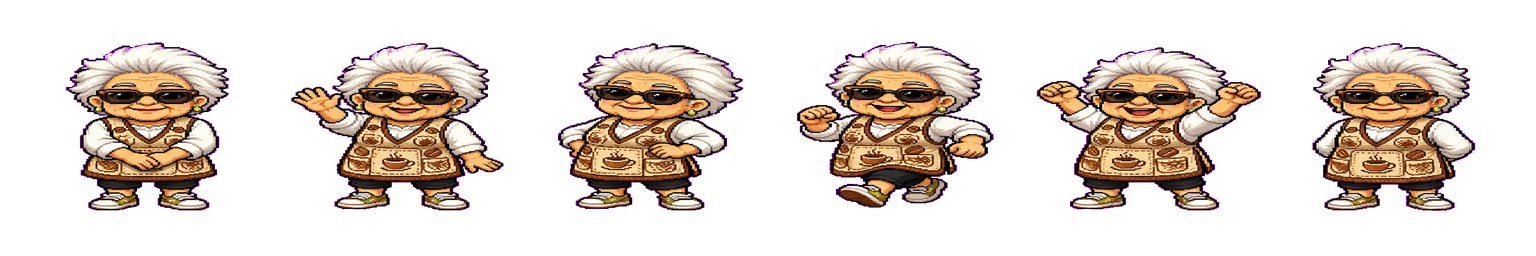
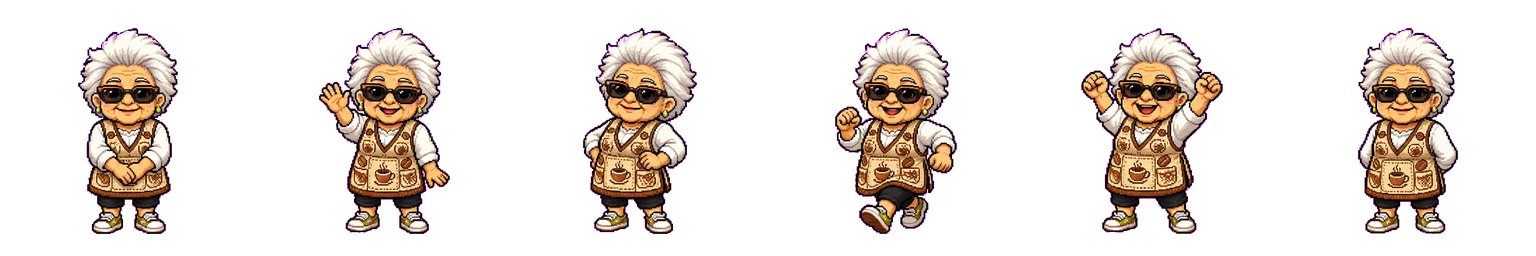
Fix Flor mascot aspect ratio

diff --git a/dist/_expo/static/js/web/AppEntry-fbb388d8e132b1793cc85e636ef574a1.js b/dist/_expo/static/js/web/AppEntry-fbb388d8e132b1793cc85e636ef574a1.js
@@ -5698,8 +5698,8 @@ __d(function(g,r,i,a,m,_e,d){"use strict";function e(e){return e&&e.__esModule?e
 __d(function(s,e,i,t,a,d,c){a.exports={uri:"/assets/assets/algodon-pixel-idle-strip.39a4a3335d308c88d66a593ec2bc2682.png",width:1536,height:256}},451,[]);
 __d(function(g,r,i,a,m,_e,d){"use strict";function e(e){return e&&e.__esModule?e:{default:e}}Object.defineProperty(_e,'__esModule',{value:!0}),Object.defineProperty(_e,"default",{enumerable:!0,get:function(){return p}});var t=r(d[0]),n=e(r(d[1])),u=e(r(d[2])),l=e(r(d[3])),s=r(d[4]);const c=r(d[5]),o=6,f={idle:{fps:2.5,duration:null},neutral:{fps:2.5,duration:null},wave:{fps:5,duration:1900},happy:{fps:6,duration:2200},bounce:{fps:6,duration:2200},angry:{fps:7,duration:1500},thinking:{fps:2,duration:null},sleepy:{fps:1.5,duration:null}};function p({state:e="idle",size:p=180,autoWave:h=!0,onIdle:v}){const[b,y]=(0,t.useState)('idle'),[_,j]=(0,t.useState)(0),w=(0,t.useRef)(!0),I=(0,t.useRef)(null),R=(0,t.useRef)(null),T=(0,t.useRef)(e);(0,t.useEffect)(()=>()=>{w.current=!1,clearInterval(I.current),clearTimeout(R.current)},[]),(0,t.useEffect)(()=>{if(!h)return;const e=setTimeout(()=>{w.current&&P('wave')},700);return()=>clearTimeout(e)},[h]),(0,t.useEffect)(()=>{e!==T.current&&(T.current=e,P(e))},[e]);const E=f[b]||f.idle;function P(e){if(!w.current)return;clearTimeout(R.current),y(f[e]?e:'idle');const t=f[e]||f.idle;t.duration&&(R.current=setTimeout(()=>{w.current&&(y('idle'),v?.())},t.duration))}return(0,t.useEffect)(()=>(j(0),clearInterval(I.current),I.current=setInterval(()=>{j(e=>(e+1)%o)},1e3/E.fps),()=>clearInterval(I.current)),[b,E.fps]),(0,s.jsx)(l.default,{onPress:function(){'idle'!==b&&'neutral'!==b||P('bounce')},accessibilityRole:"imagebutton",accessibilityLabel:"Patito, pato mini coach",children:(0,s.jsx)(n.default,{style:{width:p,height:p,overflow:'hidden'},children:(0,s.jsx)(u.default,{source:c,style:{width:p*o,height:p,transform:[{translateX:-_*p}]},resizeMode:"stretch",fadeDuration:0})})})}},452,[31,94,291,335,419,453]);
 __d(function(e,t,i,s,c,a,d){c.exports={uri:"/assets/assets/patito-pixel-idle-strip.6fceda581c55bfbebbe91a19d3c0cc12.png",width:1536,height:256}},453,[]);
-__d(function(g,r,i,a,m,_e,d){"use strict";function e(e){return e&&e.__esModule?e:{default:e}}Object.defineProperty(_e,'__esModule',{value:!0}),Object.defineProperty(_e,"default",{enumerable:!0,get:function(){return h}});var t=r(d[0]),n=e(r(d[1])),u=e(r(d[2])),l=e(r(d[3])),s=r(d[4]);const c=r(d[5]),o=6,f={idle:{fps:2,duration:null},neutral:{fps:2,duration:null},wave:{fps:4,duration:2200},happy:{fps:5,duration:2600},bounce:{fps:5,duration:2600},angry:{fps:5.5,duration:1800},thinking:{fps:1.8,duration:null},sleepy:{fps:1.3,duration:null}};function h({state:e="idle",size:h=180,autoWave:p=!0,onIdle:v}){const[y,b]=(0,t.useState)('idle'),[j,w]=(0,t.useState)(0),I=(0,t.useRef)(!0),_=(0,t.useRef)(null),R=(0,t.useRef)(null),T=(0,t.useRef)(e);(0,t.useEffect)(()=>()=>{I.current=!1,clearInterval(_.current),clearTimeout(R.current)},[]),(0,t.useEffect)(()=>{if(!p)return;const e=setTimeout(()=>{I.current&&E('wave')},800);return()=>clearTimeout(e)},[p]),(0,t.useEffect)(()=>{e!==T.current&&(T.current=e,E(e))},[e]);const x=f[y]||f.idle;function E(e){if(!I.current)return;clearTimeout(R.current),b(f[e]?e:'idle');const t=f[e]||f.idle;t.duration&&(R.current=setTimeout(()=>{I.current&&(b('idle'),v?.())},t.duration))}return(0,t.useEffect)(()=>(w(0),clearInterval(_.current),_.current=setInterval(()=>{w(e=>(e+1)%o)},1e3/x.fps),()=>clearInterval(_.current)),[y,x.fps]),(0,s.jsx)(l.default,{onPress:function(){'idle'!==y&&'neutral'!==y||E('bounce')},accessibilityRole:"imagebutton",accessibilityLabel:"Flor, abuela coach con lentes oscuros",children:(0,s.jsx)(n.default,{style:{width:h,height:h,overflow:'hidden',alignItems:'center',justifyContent:'center'},children:(0,s.jsx)(n.default,{style:{width:h,height:h,overflow:'hidden',transform:[{scaleX:1.16},{scaleY:1.04}]},children:(0,s.jsx)(u.default,{source:c,style:{width:h*o,height:h,transform:[{translateX:-j*h}]},resizeMode:"stretch",fadeDuration:0})})})})}},454,[31,94,291,335,419,455]);
-__d(function(s,e,i,t,d,f,c){d.exports={uri:"/assets/assets/flor-pixel-idle-strip.2903fc07407455a7ec2971dcf1d691fb.png",width:1536,height:256}},455,[]);
+__d(function(g,r,i,a,m,_e,d){"use strict";function e(e){return e&&e.__esModule?e:{default:e}}Object.defineProperty(_e,'__esModule',{value:!0}),Object.defineProperty(_e,"default",{enumerable:!0,get:function(){return p}});var t=r(d[0]),n=e(r(d[1])),u=e(r(d[2])),l=e(r(d[3])),s=r(d[4]);const c=r(d[5]),o=6,f={idle:{fps:2,duration:null},neutral:{fps:2,duration:null},wave:{fps:4,duration:2200},happy:{fps:5,duration:2600},bounce:{fps:5,duration:2600},angry:{fps:5.5,duration:1800},thinking:{fps:1.8,duration:null},sleepy:{fps:1.3,duration:null}};function p({state:e="idle",size:p=180,autoWave:h=!0,onIdle:b}){const[v,y]=(0,t.useState)('idle'),[_,j]=(0,t.useState)(0),w=(0,t.useRef)(!0),I=(0,t.useRef)(null),R=(0,t.useRef)(null),T=(0,t.useRef)(e);(0,t.useEffect)(()=>()=>{w.current=!1,clearInterval(I.current),clearTimeout(R.current)},[]),(0,t.useEffect)(()=>{if(!h)return;const e=setTimeout(()=>{w.current&&x('wave')},800);return()=>clearTimeout(e)},[h]),(0,t.useEffect)(()=>{e!==T.current&&(T.current=e,x(e))},[e]);const E=f[v]||f.idle;function x(e){if(!w.current)return;clearTimeout(R.current),y(f[e]?e:'idle');const t=f[e]||f.idle;t.duration&&(R.current=setTimeout(()=>{w.current&&(y('idle'),b?.())},t.duration))}return(0,t.useEffect)(()=>(j(0),clearInterval(I.current),I.current=setInterval(()=>{j(e=>(e+1)%o)},1e3/E.fps),()=>clearInterval(I.current)),[v,E.fps]),(0,s.jsx)(l.default,{onPress:function(){'idle'!==v&&'neutral'!==v||x('bounce')},accessibilityRole:"imagebutton",accessibilityLabel:"Flor, abuela coach con lentes oscuros",children:(0,s.jsx)(n.default,{style:{width:p,height:p,overflow:'hidden'},children:(0,s.jsx)(u.default,{source:c,style:{width:p*o,height:p,transform:[{translateX:-_*p}]},resizeMode:"stretch",fadeDuration:0})})})}},454,[31,94,291,335,419,455]);
+__d(function(s,d,e,i,t,p,r){t.exports={uri:"/assets/assets/flor-pixel-idle-strip.2d94558080c5da977d5496d07e6b35cf.png",width:1536,height:256}},455,[]);
 __d(function(g,r,_i,a,m,_e,d){"use strict";function e(e){return e&&e.__esModule?e:{default:e}}Object.defineProperty(_e,'__esModule',{value:!0}),Object.defineProperty(_e,"default",{enumerable:!0,get:function(){return S}});var t=r(d[0]),l=e(r(d[1])),s=e(r(d[2])),o=e(r(d[3])),n=e(r(d[4])),i=e(r(d[5])),c=e(r(d[6])),u=e(r(d[7])),p=e(r(d[8])),f=r(d[9]),b=r(d[10]),y=r(d[11]),h=r(d[12]),x=r(d[13]);const j=[{id:'ppl',label:'Push / Pull / Legs',days:6,desc:'6 d\xedas \xb7 split cl\xe1sico'},{id:'upper_lower',label:'Upper / Lower',days:4,desc:'4 d\xedas \xb7 fuerza balanceada'},{id:'full_body',label:'Full Body',days:3,desc:'3 d\xedas \xb7 ideal para empezar'},{id:'bro',label:'Bro Split',days:5,desc:'5 d\xedas \xb7 un m\xfasculo por d\xeda'},{id:'custom',label:'Rutina personalizada',days:0,desc:'Arm\xe1 tu propia rutina desde el app'}],P={ppl:[{day:'Push A',exercises:['Press banca','Press inclinado','Aperturas','Press militar','Extensi\xf3n tr\xedceps']},{day:'Pull A',exercises:['Peso muerto','Remo con barra','Jal\xf3n al pecho','Curl b\xedceps','Face pull']},{day:'Legs A',exercises:['Sentadilla','Prensa','Extensi\xf3n cu\xe1driceps','Curl femoral','Pantorrilla']}],upper_lower:[{day:'Upper A',exercises:['Press banca','Remo con barra','Press militar','Jal\xf3n al pecho','Curl b\xedceps']},{day:'Lower A',exercises:['Sentadilla','Peso muerto rumano','Prensa','Curl femoral','Pantorrilla']}],full_body:[{day:'Full Body A',exercises:['Sentadilla','Press banca','Peso muerto','Press militar','Remo']},{day:'Full Body B',exercises:['Sentadilla frontal','Press inclinado','Peso muerto rumano','Dominadas','Dips']}],bro:[{day:'Pecho',exercises:['Press banca','Press inclinado','Aperturas','Pullover','Fondos']},{day:'Espalda',exercises:['Dominadas','Remo con barra','Jal\xf3n al pecho','Remo en polea','Encogimientos']},{day:'Hombros',exercises:['Press militar','Elevaciones laterales','P\xe1jaro','Face pull','Press Arnold']},{day:'B\xedceps/Tr\xedceps',exercises:['Curl barra','Curl martillo','Press franc\xe9s','Extensi\xf3n cable','Curl concentrado']},{day:'Piernas',exercises:['Sentadilla','Prensa','Extensi\xf3n cu\xe1d','Curl femoral','Pantorrilla']}],custom:[]},C=['bienvenida','nombre','split','ejercicios','listo'];function S({onFinish:e}){const{colors:o}=(0,b.useTheme)(),f=(0,t.useMemo)(()=>T(o),[o]),[S,w]=(0,t.useState)(0),[A,I]=(0,t.useState)(''),[R,z]=(0,t.useState)(null),[B,D]=(0,t.useState)([]);function k(){if(1!==S||A.trim())if(2!==S||R){if(2===S){const e=P[R]||[];if(D(e.map((e,t)=>Object.assign({id:`${R}_${t}`},e))),'custom'===R)return void w(4)}w(e=>e+1)}else p.default.alert('Panchita dice:','Eleg\xed tu split primero.');else p.default.alert('Panchita dice:','\xa1Necesito saber tu nombre!')}return(0,x.jsx)(c.default,{style:f.safe,children:(0,x.jsxs)(i.default,{contentContainerStyle:f.scroll,keyboardShouldPersistTaps:"handled",children:[0===S&&(0,x.jsxs)(l.default,{style:f.center,children:[(0,x.jsx)(l.default,{style:f.onboardIcon,children:(0,x.jsx)(h.IconPaw,{size:54,color:o.purpleLight})}),(0,x.jsx)(s.default,{style:f.title,children:"Hola, soy Panchita"}),(0,x.jsxs)(s.default,{style:f.sub,children:["Tu coach de fitness personal.",'\n',"Vamos a configurar todo para que empieces a romperla."]}),(0,x.jsx)(n.default,{style:f.btnPrimary,onPress:k,children:(0,x.jsxs)(s.default,{style:f.btnText,children:['\xa1',"Empecemos!"]})})]}),1===S&&(0,x.jsxs)(l.default,{style:f.center,children:[(0,x.jsx)(l.default,{style:f.onboardIcon,children:(0,x.jsx)(h.IconMuscle,{size:54,color:o.purpleLight})}),(0,x.jsxs)(s.default,{style:f.title,children:['\xbf',"C\xf3mo te llamo?"]}),(0,x.jsx)(u.default,{style:f.input,placeholder:"Tu nombre o apodo",placeholderTextColor:o.gray,value:A,onChangeText:I,autoFocus:!0}),(0,x.jsx)(n.default,{style:f.btnPrimary,onPress:k,children:(0,x.jsx)(s.default,{style:f.btnText,children:"Siguiente"})})]}),2===S&&(0,x.jsxs)(l.default,{style:f.section,children:[(0,x.jsxs)(s.default,{style:f.title,children:['\xbf',"Qu\xe9 split hac\xe9s?"]}),(0,x.jsx)(s.default,{style:f.sub,children:"Eleg\xed el que m\xe1s se ajuste a tus d\xedas disponibles."}),j.map(e=>(0,x.jsxs)(n.default,{style:[f.card,R===e.id&&f.cardSelected],onPress:()=>z(e.id),children:[(0,x.jsx)(s.default,{style:[f.cardTitle,R===e.id&&f.cardTitleSelected],children:e.label}),(0,x.jsx)(s.default,{style:f.cardDesc,children:e.desc})]},e.id)),(0,x.jsx)(n.default,{style:f.btnPrimary,onPress:k,children:(0,x.jsx)(s.default,{style:f.btnText,children:"Confirmar"})})]}),3===S&&(0,x.jsxs)(l.default,{style:f.section,children:[(0,x.jsx)(s.default,{style:f.title,children:"Tus d\xedas de entrenamiento"}),(0,x.jsx)(s.default,{style:f.sub,children:"Pod\xe9s editar los ejercicios desde el app cuando quieras."}),B.map((e,t)=>(0,x.jsxs)(l.default,{style:f.dayCard,children:[(0,x.jsx)(s.default,{style:f.dayTitle,children:e.day}),e.exercises.map((e,t)=>(0,x.jsxs)(s.default,{style:f.exItem,children:["\xb7 ",e]},t))]},t)),(0,x.jsx)(n.default,{style:f.btnPrimary,onPress:k,children:(0,x.jsxs)(s.default,{style:f.btnText,children:['\xa1',"Perfecto!"]})})]}),4===S&&(0,x.jsxs)(l.default,{style:f.center,children:[(0,x.jsx)(l.default,{style:f.onboardIcon,children:(0,x.jsx)(h.IconCheck,{size:54,color:o.lime})}),(0,x.jsxs)(s.default,{style:f.title,children:['\xa1',"Todo listo, ",A,"!"]}),'custom'===R?(0,x.jsxs)(s.default,{style:f.sub,children:["Panchita te espera.",'\n',"Cre\xe1 tu primera rutina desde Entrenamiento."]}):(0,x.jsxs)(s.default,{style:f.sub,children:["Panchita va a estar ac\xe1 para cada entrenamiento.",'\n',"No me falles."]}),(0,x.jsx)(n.default,{style:f.btnLime,onPress:async function(){const t=A.trim();try{await(0,y.saveUser)({name:t,split:R,onboarded:!0}),B.length>0&&await(0,y.saveWorkouts)(B),await(0,y.setOnboarded)()}catch(e){console.log('onboarding save:',e?.message||e);try{await(0,y.setOnboarded)()}catch(e){}}e()},children:(0,x.jsxs)(l.default,{style:f.btnRow,children:[(0,x.jsx)(s.default,{style:[f.btnText,{color:'#0f0a1e'}],children:"Ir al app"}),(0,x.jsx)(h.IconArrow,{size:15,color:"#0f0a1e"})]})})]}),(0,x.jsx)(l.default,{style:f.dots,children:C.map((e,t)=>(0,x.jsx)(l.default,{style:[f.dot,t===S&&f.dotActive]},t))})]})})}function T(e){return o.default.create({safe:{flex:1,backgroundColor:e.bg},scroll:{flexGrow:1,padding:24,paddingTop:60},center:{flex:1,alignItems:'center',justifyContent:'center',paddingBottom:40},section:{flex:1,paddingBottom:40},onboardIcon:{width:76,height:76,borderRadius:38,backgroundColor:e.bgCard,borderWidth:1,borderColor:e.purpleDim,alignItems:'center',justifyContent:'center',marginBottom:16},btnRow:{flexDirection:'row',alignItems:'center',justifyContent:'center',gap:6},title:{fontSize:28,fontWeight:'700',color:e.white,textAlign:'center',marginBottom:12},sub:{fontSize:16,color:e.grayLight,textAlign:'center',lineHeight:24,marginBottom:32},input:{width:'100%',backgroundColor:e.bgInput,borderRadius:f.RADIUS.md,padding:16,fontSize:18,color:e.white,marginBottom:24,borderWidth:1,borderColor:e.purpleDim},btnPrimary:{backgroundColor:e.purple,borderRadius:f.RADIUS.full,paddingVertical:16,paddingHorizontal:48,marginTop:8},btnLime:{backgroundColor:e.lime,borderRadius:f.RADIUS.full,paddingVertical:16,paddingHorizontal:48,marginTop:8},btnText:{color:'#ffffff',fontWeight:'700',fontSize:16},card:{backgroundColor:e.bgCard,borderRadius:f.RADIUS.lg,padding:18,marginBottom:12,borderWidth:2,borderColor:'transparent'},cardSelected:{borderColor:e.purple,backgroundColor:e.purpleDim},cardTitle:{fontSize:17,fontWeight:'600',color:e.white,marginBottom:4},cardTitleSelected:{color:e.purpleLight},cardDesc:{fontSize:13,color:e.gray},dayCard:{backgroundColor:e.bgCard,borderRadius:f.RADIUS.md,padding:16,marginBottom:12},dayTitle:{fontSize:15,fontWeight:'700',color:e.lime,marginBottom:8},exItem:{fontSize:14,color:e.grayLight,marginBottom:3},dots:{flexDirection:'row',justifyContent:'center',gap:8,marginTop:32},dot:{width:8,height:8,borderRadius:4,backgroundColor:e.purpleDim},dotActive:{backgroundColor:e.purple,width:24}})}},456,[31,94,128,39,416,246,415,431,437,417,418,421,422,419]);
 __d(function(g,r,i,a,m,_e,d){"use strict";function e(e){return e&&e.__esModule?e:{default:e}}Object.defineProperty(_e,'__esModule',{value:!0}),Object.defineProperty(_e,"default",{enumerable:!0,get:function(){return v}});var t=r(d[0]),n=e(r(d[1])),l=e(r(d[2])),o=e(r(d[3])),s=e(r(d[4])),u=e(r(d[5])),c=e(r(d[6])),f=e(r(d[7]));r(d[8]);var h=e(r(d[9])),p=e(r(d[10])),x=r(d[11]),y=r(d[12]),b=r(d[13]),j=r(d[14]),S=e(r(d[15])),T=r(d[16]);const k={'auth/invalid-email':'El email no es v\xe1lido.','auth/user-not-found':'No existe una cuenta con ese email.','auth/wrong-password':'Contrase\xf1a incorrecta.','auth/invalid-credential':'Email o contrase\xf1a incorrectos.','auth/too-many-requests':'Demasiados intentos. Intent\xe1 m\xe1s tarde.','auth/network-request-failed':'Sin conexi\xf3n. Revis\xe1 tu internet.'};function v({onGoRegister:e}){const{colors:u}=(0,b.useTheme)(),j=(0,t.useMemo)(()=>C(u),[u]),[v,I]=(0,t.useState)(''),[z,W]=(0,t.useState)(''),[w,R]=(0,t.useState)(''),[A,P]=(0,t.useState)(!1);return(0,T.jsx)(c.default,{style:j.safe,children:(0,T.jsx)(f.default,{style:{flex:1},behavior:'height',keyboardVerticalOffset:0,children:(0,T.jsxs)(h.default,{contentContainerStyle:j.scroll,keyboardShouldPersistTaps:"handled",children:[(0,T.jsx)(n.default,{style:j.panchitaWrap,children:(0,T.jsx)(S.default,{state:"idle",size:140})}),(0,T.jsxs)(l.default,{style:j.title,children:['\xa1',"Hola de nuevo!"]}),(0,T.jsx)(l.default,{style:j.subtitle,children:"Inici\xe1 sesi\xf3n para continuar"}),(0,T.jsxs)(n.default,{style:j.form,children:[(0,T.jsx)(o.default,{style:j.input,placeholder:"Email",placeholderTextColor:u.gray,keyboardType:"email-address",autoCapitalize:"none",value:v,onChangeText:I}),(0,T.jsx)(o.default,{style:j.input,placeholder:"Contrase\xf1a",placeholderTextColor:u.gray,secureTextEntry:!0,value:z,onChangeText:W}),!!w&&(0,T.jsx)(l.default,{style:j.errorText,children:w}),(0,T.jsx)(s.default,{style:j.btn,onPress:async function(){if(R(''),v.trim())if(z.length<6)R('La contrase\xf1a debe tener al menos 6 caracteres.');else{P(!0);try{await(0,x.signInWithEmailAndPassword)(y.auth,v.trim(),z)}catch(t){R((e=t.code,k[e]||'Ocurri\xf3 un error. Intent\xe1 de nuevo.'))}finally{P(!1)}var e}else R('Ingres\xe1 tu email.')},disabled:A,children:A?(0,T.jsx)(p.default,{color:"#fff"}):(0,T.jsx)(l.default,{style:j.btnText,children:"Iniciar sesi\xf3n"})}),(0,T.jsx)(s.default,{onPress:e,style:j.linkWrap,children:(0,T.jsxs)(l.default,{style:j.link,children:['\xbf',"No ten\xe9s cuenta? ",(0,T.jsx)(l.default,{style:j.linkBold,children:"Registrate"})]})})]})]})})})}function C(e){return u.default.create({safe:{flex:1,backgroundColor:e.bg},scroll:{flexGrow:1,padding:24,paddingTop:16},panchitaWrap:{alignItems:'center',marginBottom:8},title:{fontSize:28,fontWeight:'700',color:e.white,textAlign:'center',marginBottom:6},subtitle:{fontSize:15,color:e.gray,textAlign:'center',marginBottom:32},form:{gap:14},input:{backgroundColor:e.bgInput,borderRadius:j.RADIUS.md,paddingHorizontal:16,paddingVertical:14,fontSize:15,color:e.white,borderWidth:1,borderColor:e.purpleDim},errorText:{fontSize:13,color:e.danger,textAlign:'center'},btn:{backgroundColor:e.purple,borderRadius:j.RADIUS.full,paddingVertical:16,alignItems:'center',marginTop:4},btnText:{color:'#fff',fontWeight:'700',fontSize:16},linkWrap:{alignItems:'center',marginTop:4},link:{fontSize:14,color:e.gray},linkBold:{color:e.purpleLight,fontWeight:'600'}})}},457,[31,94,128,431,416,39,415,438,92,246,124,390,400,418,417,423,419]);
 __d(function(g,r,i,a,m,_e,d){"use strict";function e(e){return e&&e.__esModule?e:{default:e}}Object.defineProperty(_e,'__esModule',{value:!0}),Object.defineProperty(_e,"default",{enumerable:!0,get:function(){return S}});var t=r(d[0]),l=e(r(d[1])),n=e(r(d[2])),o=e(r(d[3])),s=e(r(d[4])),c=e(r(d[5])),u=e(r(d[6])),f=e(r(d[7]));r(d[8]);var h=e(r(d[9])),p=e(r(d[10])),x=r(d[11]),y=r(d[12]),b=r(d[13]),j=r(d[14]),T=e(r(d[15])),C=r(d[16]);function S({onGoLogin:e}){const{colors:c}=(0,b.useTheme)(),j=(0,t.useMemo)(()=>k(c),[c]),[S,z]=(0,t.useState)(''),[W,I]=(0,t.useState)(''),[v,P]=(0,t.useState)(''),[A,_]=(0,t.useState)(''),[w,B]=(0,t.useState)(!1);return(0,C.jsx)(u.default,{style:j.safe,children:(0,C.jsx)(f.default,{style:{flex:1},behavior:'height',keyboardVerticalOffset:0,children:(0,C.jsxs)(h.default,{contentContainerStyle:j.scroll,keyboardShouldPersistTaps:"handled",children:[(0,C.jsx)(l.default,{style:j.panchitaWrap,children:(0,C.jsx)(T.default,{state:"idle",size:140})}),(0,C.jsxs)(n.default,{style:j.title,children:['\xa1',"Cre\xe1 tu cuenta!"]}),(0,C.jsx)(n.default,{style:j.subtitle,children:"Panchita te est\xe1 esperando"}),(0,C.jsxs)(l.default,{style:j.form,children:[(0,C.jsx)(o.default,{style:j.input,placeholder:"Email",placeholderTextColor:c.gray,keyboardType:"email-address",autoCapitalize:"none",value:S,onChangeText:z}),(0,C.jsx)(o.default,{style:j.input,placeholder:"Contrase\xf1a",placeholderTextColor:c.gray,secureTextEntry:!0,value:W,onChangeText:I}),(0,C.jsx)(o.default,{style:j.input,placeholder:"Confirm\xe1 la contrase\xf1a",placeholderTextColor:c.gray,secureTextEntry:!0,value:v,onChangeText:P}),!!A&&(0,C.jsx)(n.default,{style:j.errorText,children:A}),(0,C.jsx)(s.default,{style:j.btn,onPress:async function(){if(_(''),S.trim())if(W.length<6)_('La contrase\xf1a debe tener al menos 6 caracteres.');else if(W===v){B(!0);try{await(0,x.createUserWithEmailAndPassword)(y.auth,S.trim(),W)}catch(e){console.log('Firebase error:',e.code,e.message),_(e.code+': '+e.message)}finally{B(!1)}}else _('Las contrase\xf1as no coinciden.');else _('Ingres\xe1 tu email.')},disabled:w,children:w?(0,C.jsx)(p.default,{color:"#fff"}):(0,C.jsx)(n.default,{style:j.btnText,children:"Crear cuenta"})}),(0,C.jsx)(s.default,{onPress:e,style:j.linkWrap,children:(0,C.jsxs)(n.default,{style:j.link,children:['\xbf',"Ya ten\xe9s cuenta? ",(0,C.jsx)(n.default,{style:j.linkBold,children:"Inici\xe1 sesi\xf3n"})]})})]})]})})})}function k(e){return c.default.create({safe:{flex:1,backgroundColor:e.bg},scroll:{flexGrow:1,padding:24,paddingTop:16},panchitaWrap:{alignItems:'center',marginBottom:8},title:{fontSize:28,fontWeight:'700',color:e.white,textAlign:'center',marginBottom:6},subtitle:{fontSize:15,color:e.gray,textAlign:'center',marginBottom:32},form:{gap:14},input:{backgroundColor:e.bgInput,borderRadius:j.RADIUS.md,paddingHorizontal:16,paddingVertical:14,fontSize:15,color:e.white,borderWidth:1,borderColor:e.purpleDim},errorText:{fontSize:13,color:e.danger,textAlign:'center'},btn:{backgroundColor:e.purple,borderRadius:j.RADIUS.full,paddingVertical:16,alignItems:'center',marginTop:4},btnText:{color:'#fff',fontWeight:'700',fontSize:16},linkWrap:{alignItems:'center',marginTop:4},link:{fontSize:14,color:e.gray},linkBold:{color:e.purpleLight,fontWeight:'600'}})}},458,[31,94,128,431,416,39,415,438,92,246,124,390,400,418,417,423,419]);

diff --git a/components/Flor.js b/components/Flor.js
@@ -97,19 +97,17 @@ export default function Flor({
 
   return (
     <Pressable onPress={handleTap} accessibilityRole="imagebutton" accessibilityLabel="Flor, abuela coach con lentes oscuros">
-      <View style={{ width: size, height: size, overflow: 'hidden', alignItems: 'center', justifyContent: 'center' }}>
-        <View style={{ width: size, height: size, overflow: 'hidden', transform: [{ scaleX: 1.16 }, { scaleY: 1.04 }] }}>
-          <Image
-            source={IDLE_STRIP}
-            style={{
-              width: size * FRAME_COUNT,
-              height: size,
-              transform: [{ translateX: -frame * size }],
-            }}
-            resizeMode="stretch"
-            fadeDuration={0}
-          />
-        </View>
+      <View style={{ width: size, height: size, overflow: 'hidden' }}>
+        <Image
+          source={IDLE_STRIP}
+          style={{
+            width: size * FRAME_COUNT,
+            height: size,
+            transform: [{ translateX: -frame * size }],
+          }}
+          resizeMode="stretch"
+          fadeDuration={0}
+        />
       </View>
     </Pressable>
   );

diff --git a/dist/index.html b/dist/index.html
@@ -40,6 +40,6 @@
     </noscript>
     <!-- The root element for your Expo app. -->
     <div id="root"></div>
-  <script src="/_expo/static/js/web/AppEntry-c92b0d14211bed104f5cc809432a95e0.js" defer></script>
+  <script src="/_expo/static/js/web/AppEntry-fbb388d8e132b1793cc85e636ef574a1.js" defer></script>
 </body>
 </html>
